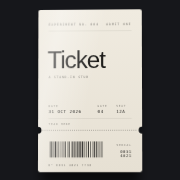
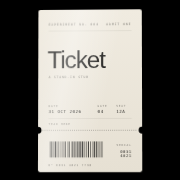
Ticket: wider orbit, black background

diff --git a/ticket/index.html b/ticket/index.html
@@ -3,7 +3,7 @@
 <meta charset="utf-8">
 <meta name="viewport" content="width=device-width,initial-scale=1,maximum-scale=1,user-scalable=no,viewport-fit=cover">
 <meta name="apple-mobile-web-app-capable" content="yes">
-<meta name="theme-color" content="#16171b">
+<meta name="theme-color" content="#000">
 <meta name="color-scheme" content="dark">
 <title>Ticket</title>
 <meta name="description" content="Ticket, an experiment. Tug a ticket stub and it tilts a few degrees.">
@@ -21,9 +21,8 @@
 <meta name="twitter:image" content="https://logseib.github.io/experiments/ticket/og.jpg">
 <link rel="apple-touch-icon" href="apple-touch-icon.png">
 <style>
-html,body{margin:0;height:100%;background:#16171b;overflow:hidden;overscroll-behavior:none;-webkit-user-select:none;user-select:none;-webkit-touch-callout:none;touch-action:none}
-#stage{position:fixed;inset:0;display:flex;align-items:center;justify-content:center;touch-action:none;cursor:grab;-webkit-tap-highlight-color:transparent;
-  background:radial-gradient(ellipse 80% 60% at 50% 46%,#2a2b31 0%,#1c1d22 55%,#121317 100%)}
+html,body{margin:0;height:100%;background:#000;overflow:hidden;overscroll-behavior:none;-webkit-user-select:none;user-select:none;-webkit-touch-callout:none;touch-action:none}
+#stage{position:fixed;inset:0;display:flex;align-items:center;justify-content:center;touch-action:none;cursor:grab;-webkit-tap-highlight-color:transparent;background:#000}
 #stage.drag{cursor:grabbing}
 #persp{position:relative;width:var(--tw,min(300px,80vw));perspective:1200px;perspective-origin:50% 50%}
 #shadow,#ticket{display:block;width:100%;height:auto;transform-origin:50% 50%;will-change:transform;pointer-events:none}
@@ -81,7 +80,7 @@ html,body{margin:0;height:100%;background:#16171b;overflow:hidden;overscroll-beh
 'use strict';
 var stage=document.getElementById('stage'),ticketEl=document.getElementById('ticket'),shadowEl=document.getElementById('shadow'),sheen=document.getElementById('sheen'),cap=document.getElementById('cap');
 var REST_X=4,REST_Y=-3;      // resting rotateX / rotateY (deg)
-var MAX=8,SOFT=110;          // clamp (deg) around rest, px of drag at which the curve starts to saturate
+var MAX=16,SOFT=150;         // clamp (deg) around rest: ty=REST+MAX*tanh(drag/SOFT)
 var K_DRAG=420,C_DRAG=40;    // firm spring while a finger is down (follows the target)
 var K_REL=72,C_REL=9;     // soft spring on release: damping ratio ~0.53, slight overshoot
 var rx=REST_X,ry=REST_Y,vx=0,vy=0,tx=REST_X,ty=REST_Y,k=K_REL,c=C_REL;
@@ -89,11 +88,11 @@ var dragging=false,pid=null,sx0=0,sy0=0,raf=0,last=0;
 
 function render(){
   var dy=ry-REST_Y,dx=rx-REST_X;               // tilt relative to rest
-  var t='translate3d('+(-dy*2.4).toFixed(2)+'px,'+(16+dx*2.4).toFixed(2)+'px,-30px) rotateX('+rx.toFixed(3)+'deg) rotateY('+ry.toFixed(3)+'deg) scale(.97)';
+  var t='translate3d('+(-dy*1.5).toFixed(2)+'px,'+(16+dx*1.5).toFixed(2)+'px,-30px) rotateX('+rx.toFixed(3)+'deg) rotateY('+ry.toFixed(3)+'deg) scale(.97)';
   shadowEl.style.transform=t;
   ticketEl.style.transform='rotateX('+rx.toFixed(3)+'deg) rotateY('+ry.toFixed(3)+'deg)';
   // sheen band slides across with the horizontal tilt, nudged by the vertical tilt
-  var sx=100+(dy/MAX)*120+(dx/MAX)*40, sy=(dx/MAX)*30;
+  var sx=150+(dy/MAX)*120+(dx/MAX)*40, sy=(dx/MAX)*30;
   sheen.setAttribute('transform','translate('+sx.toFixed(1)+' '+sy.toFixed(1)+') skewX(-12)');
 }
 function step(now){
